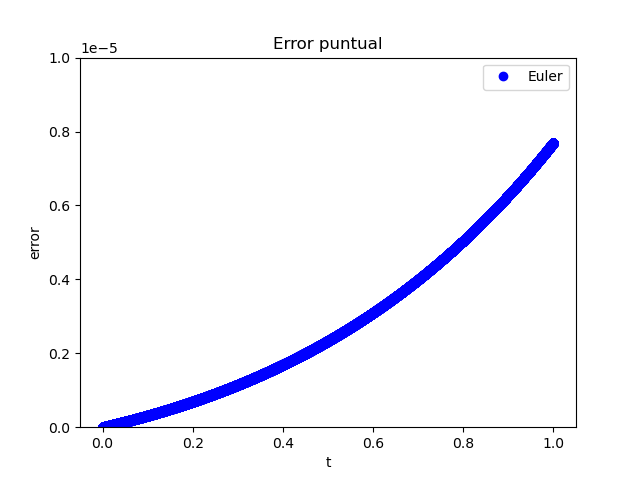
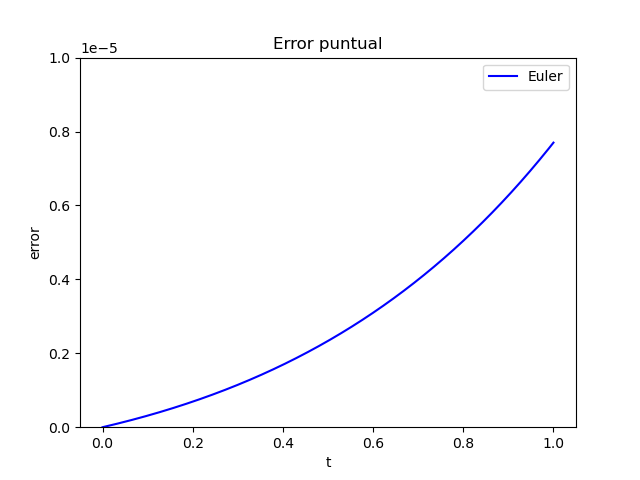
tarea 5 terminada

Changed region(s): [[0.1562, 0.2812, 0.875, 0.9062], [0.7812, 0.1562, 0.8125, 0.1875]]

diff --git a/main.tex b/main.tex
@@ -773,79 +773,117 @@ Al igual que en los métodos de un paso,
   \begin{equation}
     u_{n+1} = u_n + \frac{h}{2}(f_n + f(t_{n+1},u_{n+1})).
   \end{equation}
-  La idea es
-  \begin{itemize}
-    \item
-      primero hacer una estimación de $u_{n+1}$, digamos
-      $u_{n+1}^{(0)}$, usando un método explícto de $\tilde p+1$ pasos
-      (con coeficientes $\tilde a_j, \tilde b_j$). Con $\tilde p + 1$
-      datos iniciales
-      \begin{align}
-        u^{(m)}_0 &= u^{(m-1)}_0 = u_0, \\
-        u^{(m)}_1 &= u^{(m-1)}_1 = u_1, \\
-        \vdots \\
-        u^{(m)}_{\tilde p} &= u^{(m-1)}_{\tilde p} = u_{\tilde p}
-      ,\end{align}
-      podemos calcular
-      \begin{align}
-        f^{(m-1)}_0 &= f(t_0,u^{(m-1)}_0) = f_0, \\
-        f^{(m-1)}_1 &= f(t_1,u^{(m-1)}_1) = f_1, \\
-        \vdots \\
-        f^{(m-1)}_{\tilde p} &= f(t_{\tilde p},u^{(m-1)}_{\tilde p})
-        = f_{\tilde p}
-      ,\end{align}
-      \begin{align}
-        u_{\tilde p+1}^{(0)}
-        &=
-        \tilde a_{0} u_{\tilde p}^{(m)}
-        + \tilde a_{1} u_{\tilde p - 1}^{(m)}
-        + \dots +
-        \tilde a_{\tilde p} u_{0}^{(m)}
-        \\
-        &\quad
-        + h
-          [
-          \tilde b_0 f_{\tilde p}^{(m-1)}
-          +
-          \tilde b_1 f_{\tilde p-1}^{(m-1)}
-          + \dots +
-          \tilde b_{\tilde p} f_{0}^{(m-1)}
-          ]
-        \\
-        &=
-        \sum_{j=0}^{\tilde p}\tilde a_j u_{\tilde p-j}^{(1)}
-        + h \sum_{j=0}^{\tilde p}\tilde b_j f_{\tilde p-j}^{(0)}
-      .\end{align}
-      Luego, aplicamos el primer ciclo de evaluación y corrección:
-      \begin{align}
-        f_{\tilde p + 1}^{(k)}
-        &= f(t_{\tilde p+1},u_{\tilde p + 1}^{(k)})
-        \\
-        u_{\tilde p + 1}^{(k+1)}
-        &= \sum_{j=0}^{p}a_ju_{\tilde p-j}^{(m)}
-        + h b_{-1}f_{\tilde p+1}^{(k)}
-        + h \sum_{j=0}^{p}b_jf_{\tilde p-j}^{(m-1)}
-      \end{align}
-      ejecutando un cálculo y luego el otro, para $k=0,\dots,m-1$.
-      Esto nos permite usar $u_{\tilde p + 1}^{(0)}$ para calcular
-      $f^{(0)}_{\tilde p + 1}$, luego, usar
-      
-      ambos para crear una nueva
-      aproximación $u_{\tilde p + 1}^{(1)}$
-      
-      \begin{align}
-        u_{n+1}^{(0)}
-        &=
-        \sum_{j=0}^{\tilde p}\tilde a_j u_{n-j}^{(1)}
-        + h \sum_{j=0}^{\tilde p}\tilde b_j f_{n-j}^{(0)}
-      .\end{align}
-      
-      
-    \item
-      y luego usar un método de punto fijo con $m$ iteraciones
-  \end{itemize}
-  
 \end{example}
+
+La idea es
+\begin{itemize}
+  \item
+    Comenzar con $\tilde p + 1$ datos iniciales
+    \begin{equation}
+      u_0,u_1,\dots,u_{\tilde p}
+    \end{equation}
+    y a partir de estos generar los $\tilde p+1$ valores iniciales de
+    $f$:
+    \begin{align}
+      f_0 &= f(t_0,u_0) \\
+      f_1 &= f(t_1,u_1) \\
+      \vdots \\
+      f_{\tilde p} &= f(t_{\tilde p},u_{\tilde p})
+    .\end{align}
+  \item
+    Con esta información inicial, primero hacer una estimación de
+    $u_{n+1}$, digamos $u_{n+1}^{(0)}$, usando un método explícto de
+    $\tilde p+1$ pasos (con $\tilde p+1$ coeficientes $\tilde a_j,
+    \tilde b_j$, $0\leq j\leq \tilde p$).
+    %\begin{align}
+    %  u^{(m)}_0 &= u_0, \\
+    %  u^{(m)}_1 &= u_1, \\
+    %  \vdots \\
+    %  u^{(m)}_{\tilde p} &= u_{\tilde p}
+    %,\end{align}
+    %podemos calcular
+    %\begin{align}
+    %  f^{(m-1)}_0 &= f(t_0,u_0) = f_0, \\
+    %  f^{(m-1)}_1 &= f(t_1,u_1) = f_1, \\
+    %  \vdots \\
+    %  f^{(m-1)}_{\tilde p} &= f(t_{\tilde p},u_{\tilde p})
+    %  = f_{\tilde p}
+    %,\end{align}
+    \begin{align}
+      u_{\tilde p+1}^{(0)}
+      &=
+      \tilde a_{0} u_{\tilde p}
+      + \tilde a_{1} u_{\tilde p - 1}
+      + \dots +
+      \tilde a_{\tilde p} u_{0}
+      + h
+        [
+        \tilde b_0 f_{\tilde p}
+        +
+        \tilde b_1 f_{\tilde p-1}
+        + \dots +
+        \tilde b_{\tilde p} f_{0}
+        ]
+      \\
+      &=
+      \sum_{j=0}^{\tilde p}\tilde a_j u_{\tilde p-j}
+      + h \sum_{j=0}^{\tilde p}\tilde b_j f_{\tilde p-j}
+    .\end{align}
+  \item
+    Luego, aplicamos $m$ ciclos de evaluar $f$ y luego corregir con un
+    método implícito de $p+1$ pasos, donde  $p\leq\tilde p$.
+    \begin{align}
+      f_{\tilde p + 1}^{(0)}
+      &= f(t_{\tilde p+1},u_{\tilde p + 1}^{(0)}),
+      &
+        u_{\tilde p + 1}^{(1)}
+        &= \sum_{j=0}^{p}a_ju_{\tilde p-j}
+        + h b_{-1}f_{\tilde p+1}^{(0)}
+        + h \sum_{j=0}^{p}b_jf_{\tilde p-j},
+        \\
+      f_{\tilde p + 1}^{(1)}
+      &= f(t_{\tilde p+1},u_{\tilde p + 1}^{(1)}),
+      &
+        u_{\tilde p + 1}^{(2)}
+        &= \sum_{j=0}^{p}a_ju_{\tilde p-j}
+        + h b_{-1}f_{\tilde p+1}^{(1)}
+        + h \sum_{j=0}^{p}b_jf_{\tilde p-j},
+        \\
+      \vdots \nonumber
+      \\
+      f_{\tilde p + 1}^{(m-1)}
+      &= f(t_{\tilde p+1},u_{\tilde p + 1}^{(m-1)}),
+      &
+        u_{\tilde p + 1}^{(m)}
+        &= \sum_{j=0}^{p}a_ju_{\tilde p-j}
+        + h b_{-1}f_{\tilde p+1}^{(m-1)}
+        + h \sum_{j=0}^{p}b_jf_{\tilde p-j}.
+    \end{align}
+    Tomamos $u_{\tilde p+1}$ como el resultado de la $m$-ésima
+    iteración. Es decir, $u_{\tilde p+1} = u_{\tilde p + 1}^{(m)}$.
+  \item
+    Estos últimos dos pasos son el primer paso del siguiente ciclo:
+    Para cada $\tilde p\leq n\leq N-1$, se hace
+    \begin{align}
+      u_{n+1}^{(0)}
+      &=
+      \sum_{j=0}^{n}\tilde a_j u_{n-j}
+      + h \sum_{j=0}^{n}\tilde b_j f_{n-j}
+    ,\end{align}
+    seguido de las $m$ iteraciones siguientes, donde $0\leq k\leq
+    m-1$:
+    \begin{align}
+      f_{n + 1}^{(k)}
+      &= f(t_{n+1},u_{n + 1}^{(k)}),
+      &
+        u_{n + 1}^{(k+1)}
+        &= \sum_{j=0}^{p}a_ju_{n-j}
+        + h b_{-1}f_{n+1}^{(k-1)}
+        + h \sum_{j=0}^{p}b_jf_{n-j},
+    \end{align}
+    y luego se define $u_{n+1}=u_{n+1}^{(m)}$.
+\end{itemize}
+  
 
 \subsection{Metodos Runge-Kutta}
 Nota: a partir de la serie de Taylor

diff --git a/tareas-aned/predictor_corrector.py b/tareas-aned/predictor_corrector.py
@@ -1,40 +1,41 @@
 import numpy as np
 
 
-def predcor(coefcorra, coefcorrb, coefpreda, coefpredb,
+def dot(xs, ys):
+    return (
+        sum([xs[i] * ys[i] for i in range(0, min(len(xs), len(ys)))])
+    )
+
+
+def predcor(coefpreda, coefpredb, coefcorra, coefcorrb,
             h, f, t0, tf, condini, iteracionescorr):
     T = tf - t0
     N = round(T / h)
-    pasoscorr = max(len(coefcorra), len(coefcorrb) - 1)
-    pasospred = max(len(coefpreda), len(coefpredb) - 1)
-    pasoscorpr = max(pasoscorr, pasospred)
-    if (len(condini) < pasoscorpr):
+    pasospred = max(len(coefpreda) - 1, len(coefpredb) - 1)
+    pasoscorr = max(len(coefcorra) - 1, len(coefcorrb) - 2)
+    pasos = max(pasoscorr, pasospred)
+    if (len(condini) <= pasos):
         return [], []
-    us = condini[0:pasoscorpr]
-    # y = condini[0:pasoscorpr]
     ts = [t0 + n * h for n in range(0, N + 1)]
-    fs = [f(ts[i], us[i]) for i in range(0, pasoscorpr)]
-    print(fs)
-
-    # k = pasoscorpr
-    # for t in ts[pasoscorpr:(N + 1)]:
-    # ut = np.dot(coefpreda, u[k:k - pasospred + 1:-1])
-    return us
-
-
-def f(t, y):
-    return y
-
-
-atilde = [1]                # coeficientes predictor
-btilde = [1 / 2, 1 / 2]     #
-a = [1]                     # coeficientes corrector
-b = [1]                     #
-h = 0.1
-t0 = 0
-tf = 1
-condini = [1, np.exp(1 + h)]
-m = 1
-us = predcor(a, b, atilde, btilde, h, f, t0, tf, condini, m)
-
-print(us)
+    us = np.zeros(N + 1)
+    us[0:(pasos + 1)] = condini[0:(pasos + 1)]
+    fs = np.zeros(N + 1)
+    for i in range(0, pasos + 1):
+        fs[i] = f(ts[i], us[i])
+    for n in range(pasos, N):
+        us[n + 1] = (
+            dot(coefpreda, us[n::-1])
+            +
+            h *
+            dot(coefpredb, fs[n::-1])
+        )
+        for k in range(0, iteracionescorr):
+            fs[n + 1] = f(ts[n + 1], us[n + 1])  # f_{n+1}^{(k)}
+            us[n + 1] = (                        # u_{n+1}^{(k+1)}
+                dot(coefcorra, us[n::-1])
+                + h *
+                coefcorrb[0] * fs[n + 1]
+                + h *
+                dot(coefcorrb[1:], fs[n::-1])
+            )
+    return ts, us

diff --git a/tareas-aned/tarea2_ej5_jaac_aned_main.py b/tareas-aned/tarea2_ej5_jaac_aned_main.py
@@ -1,0 +1,56 @@
+import matplotlib.pyplot as plt
+import numpy as np
+import predictor_corrector as pc
+
+
+def f(t, y):
+    return np.exp(-y)
+
+
+def lmap(f, xs):
+    return [f(x) for x in xs]
+
+
+def sol(t):
+    return np.log(1 + t)
+
+
+# parámetros para todos los métodos
+a = [1]                                     # coeficientes corrector
+b = [bi / 24 for bi in [9, 19, -5, 1]]      #
+t0 = 0
+tf = 1
+hs = [1 / r for r in [1300, 600, 250, 110, 50, 20, 10]]
+
+# parámetros variables según el método:
+atilde = [1]                                # coeficientes predictor
+btildes = [[3 / 2, -1 / 2], [1], [1]]       #
+m = [1, 1, 2]                               # iteraciones de corrección
+marks = ['v', 'o', 's']
+labels = ['AB2-AM3, m=1', 'AB1-AM3, m=1', 'AB1-AM3, m=2']
+
+# para graficar:
+finalerrors = [[], [], []]
+
+for i in [0, 1, 2]:
+    for h in hs:
+        condini = [0, sol(h), sol(2 * h)]
+        ts, us = pc.predcor(
+            atilde, btildes[i], a, b, h, f, t0, tf, condini, m[i]
+        )
+        finalerrors[i].append(abs(us[-1] - np.log(2)))
+        # plt.semilogy(
+        #     ts,
+        #     abs(us - lmap(sol, ts)),
+        #     color=(0.1, 10 * h, 0.5),
+        #     label=h
+        # )
+    plt.loglog(hs, finalerrors[i], marks[i], label=labels[i])
+
+plt.title("Error en el valor final de la solución obtenida")
+plt.xlabel("h")
+plt.ylabel("|y(1)-u_N|")
+plt.legend()
+plt.ylim([10**(-12), 10**(-2)])
+
+plt.show()

diff --git a/tareas-aned/tarea2_ej2_jaac_aned_main.py b/tareas-aned/tarea2_ej2_jaac_aned_main.py
@@ -1,9 +1,6 @@
-import random as rd
 import numpy as np
 import matplotlib.pyplot as plt
-
-ws = []
-N = 15000
+import matplotlib.colors as col
 
 
 def cond1(z):
@@ -17,21 +14,28 @@ def cond2(z):
     return (abs(r0) < 1 and abs(r1) < 1)
 
 
-for n in range(1, N):
-    z = complex(8 * (rd.random() - 0.5), 8 * (rd.random() - 0.5))
-    if cond2(z):
-        ws.append(z)
+m = 1000
+n = 1000
 
+plt.title("(Amarillo) Región del plano complejo con |1+z+z²/2|<1")
+xmin, xmax = -3, 3
+ymin, ymax = -3, 3
+f = cond1
 
-def lmap(f, lst):
-    return [f(x) for x in lst]
+# plt.title("(Amarillo) Región del plano complejo con |r0(z)|<1 y |r1(z)|<1")
+# xmin, xmax = -4, 4
+# ymin, ymax = -3, 3
+# f = cond2
 
+xs, ys = np.meshgrid(np.linspace(xmin, xmax, m), np.linspace(ymin, ymax, n))
+zs = [[complex(xs[i, j], ys[i, j]) for j in range(0, m)] for i in range(0, n)]
+resultado = [[f(zs[i][j]) for j in range(0, m)] for i in range(0, n)]
 
-# plt.title("Región del plano complejo con |1+z+z²/2|<1")
-plt.title("Región del plano complejo con |r0(z)|<1 y |r1(z)|<1")
-plt.scatter(lmap(lambda x: x.real, ws), lmap(lambda x: x.imag, ws))
-plt.xlim([-4, 4])
-plt.ylim([-3, 3])
+plt.imshow(resultado,
+           extent=(xs.min(), xs.max(), ys.min(), ys.max()),
+           origin="lower",
+           cmap=col.ListedColormap(['#93E740', '#F2F226'])
+           )
 plt.xlabel("Re(z)")
 plt.ylabel("Im(z)")
 plt.show()

diff --git a/tareas-aned/jaac_tarea2_aned.tex b/tareas-aned/jaac_tarea2_aned.tex
@@ -483,6 +483,13 @@ métodos multipaso}
   en la figura 11.8, pero simplemente usando la implementación
   $P(EC)^{m}$.
 \end{exercise}
+\begin{sol}
+  \leavevmode
+  \begin{center}
+  \includegraphics[width=0.7\textwidth]
+  {img/jaac_tarea2_ejercicio5.png}
+  \end{center}
+\end{sol}
 
 \begin{exercise}
   Considere el método

diff --git a/tareas-aned/tarea2_ej1_jaac_aned_main.py b/tareas-aned/tarea2_ej1_jaac_aned_main.py
@@ -36,7 +36,7 @@ def sol(t):
 #
 
 ts, ys = jaac.euler(f, y0=1, a=A, b=B, h=7.3576e-6)
-plt.plot(ts, abs(ys - sol(ts)), 'bo', label="Euler")
+plt.plot(ts, abs(ys - sol(ts)), 'b', label="Euler")
 
 plt.title("Error puntual")
 plt.xlabel("t")
